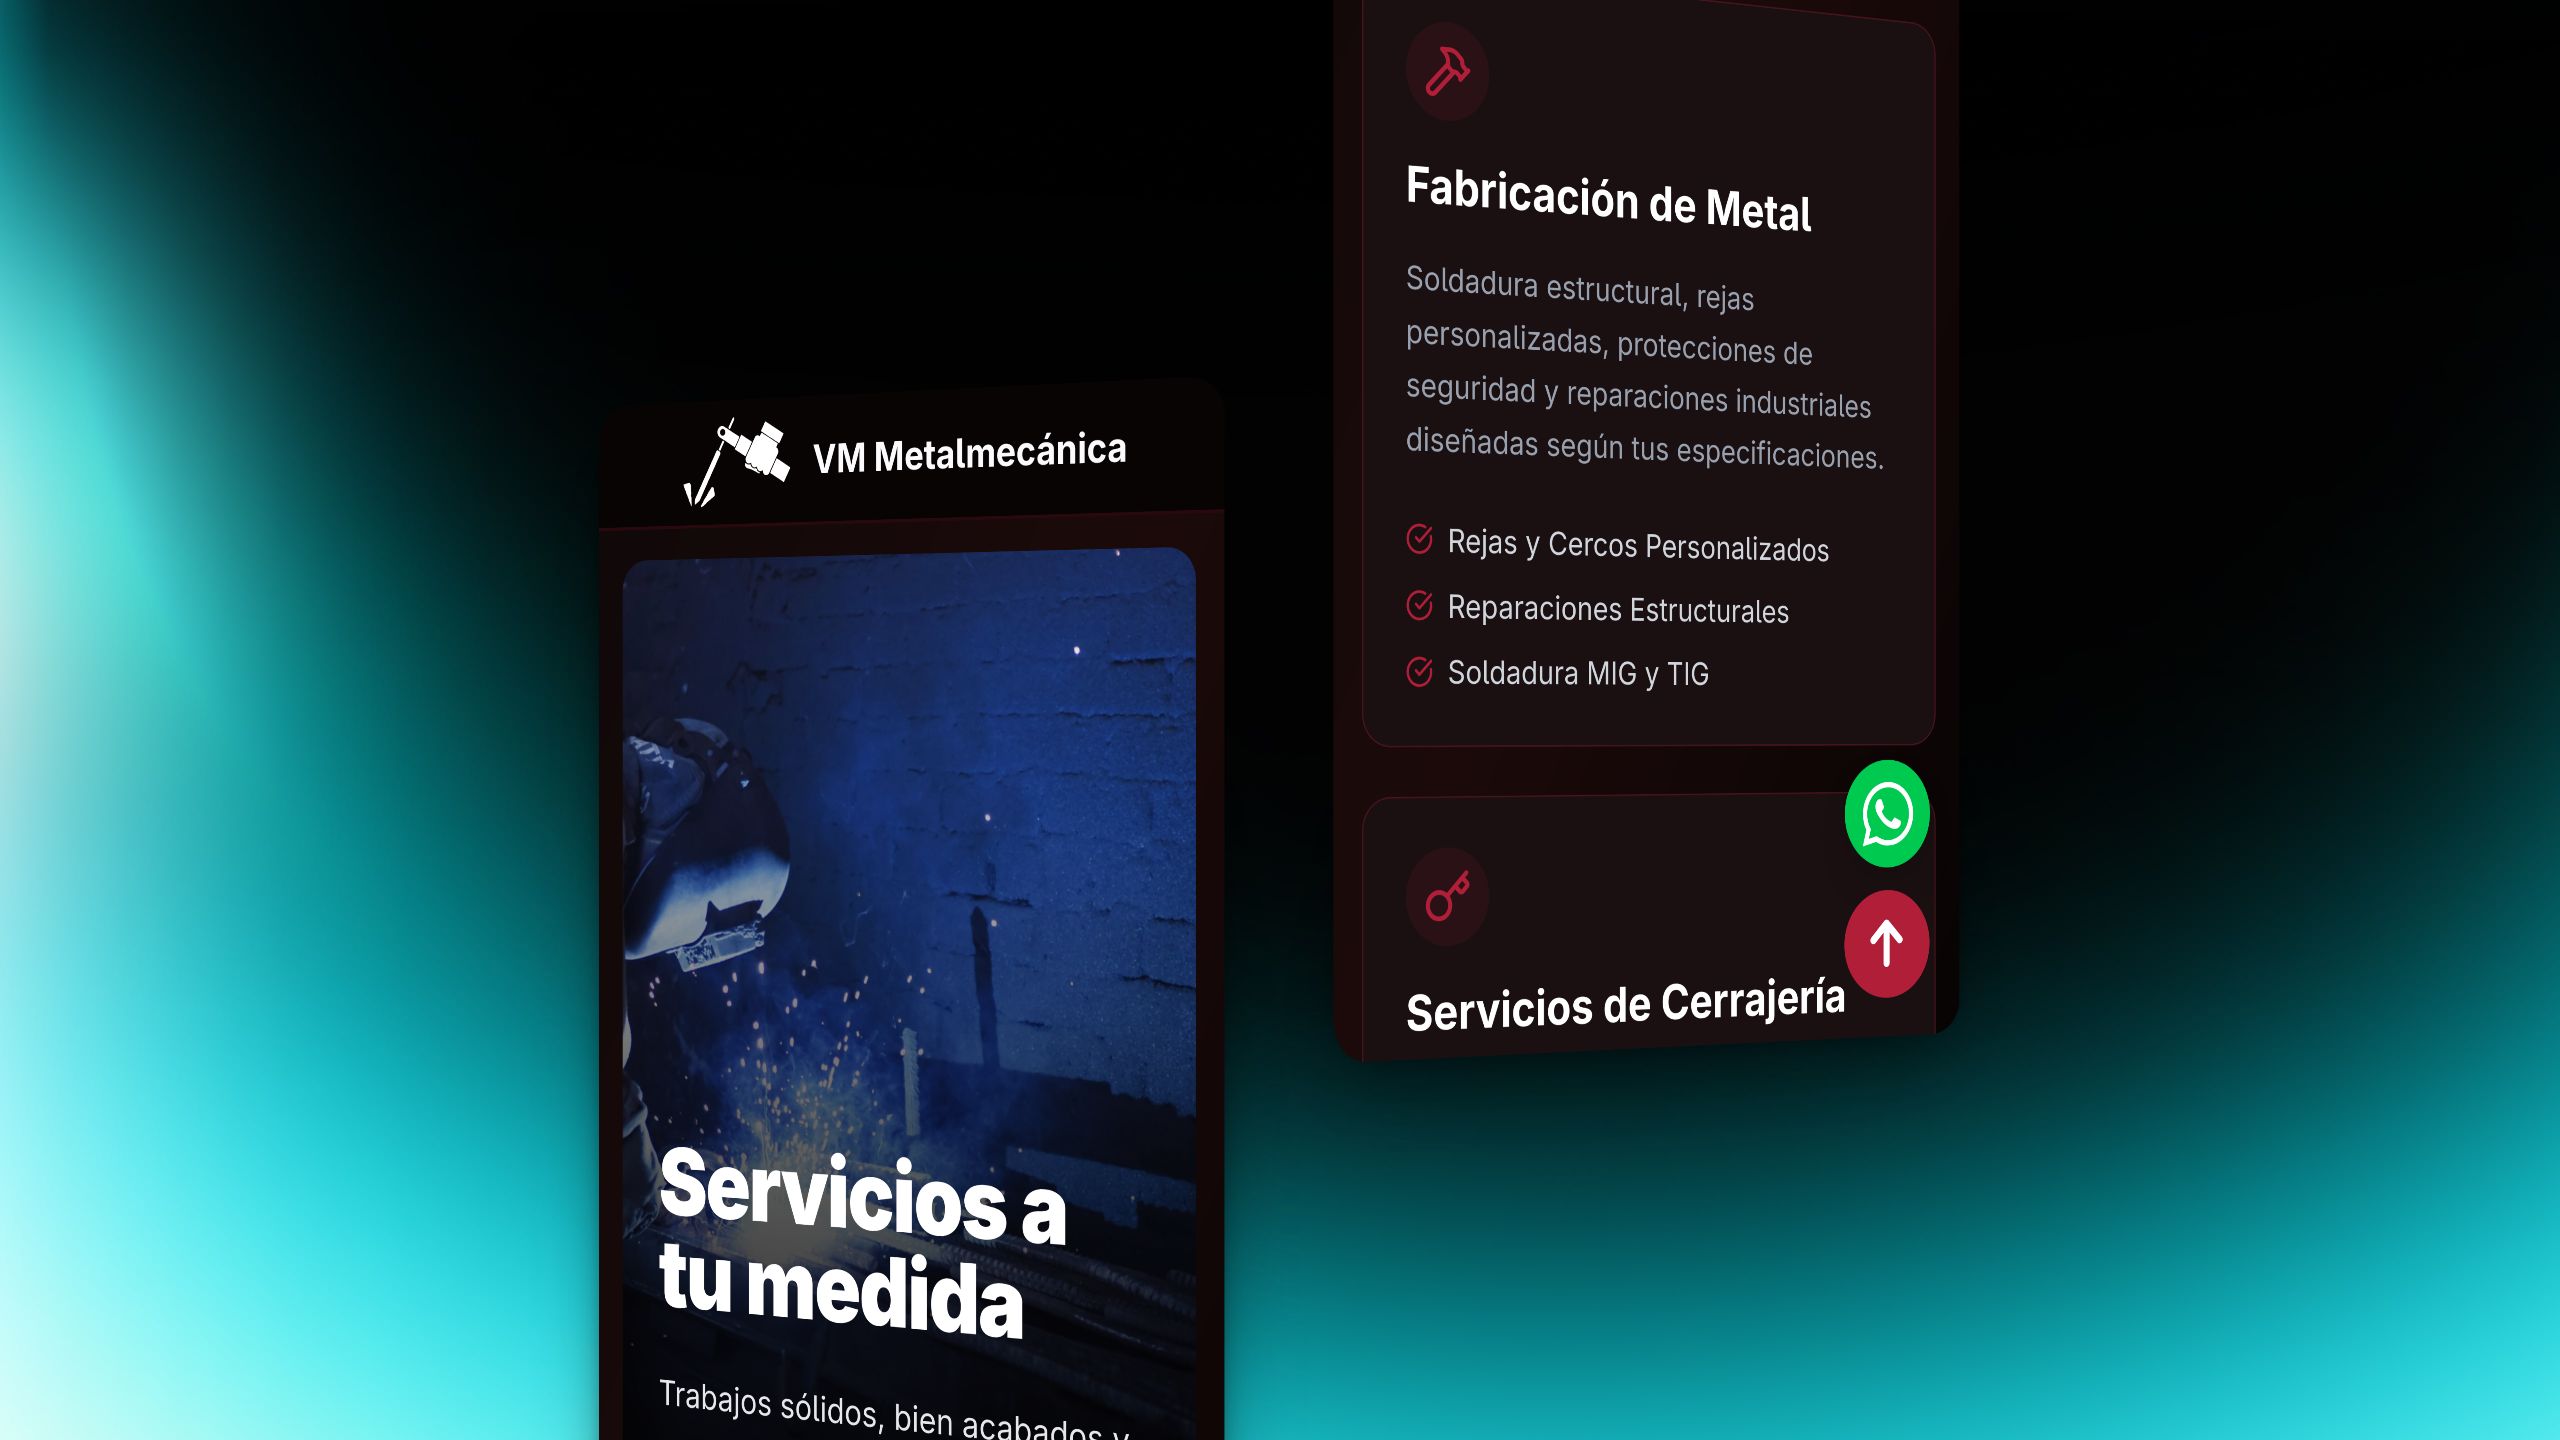
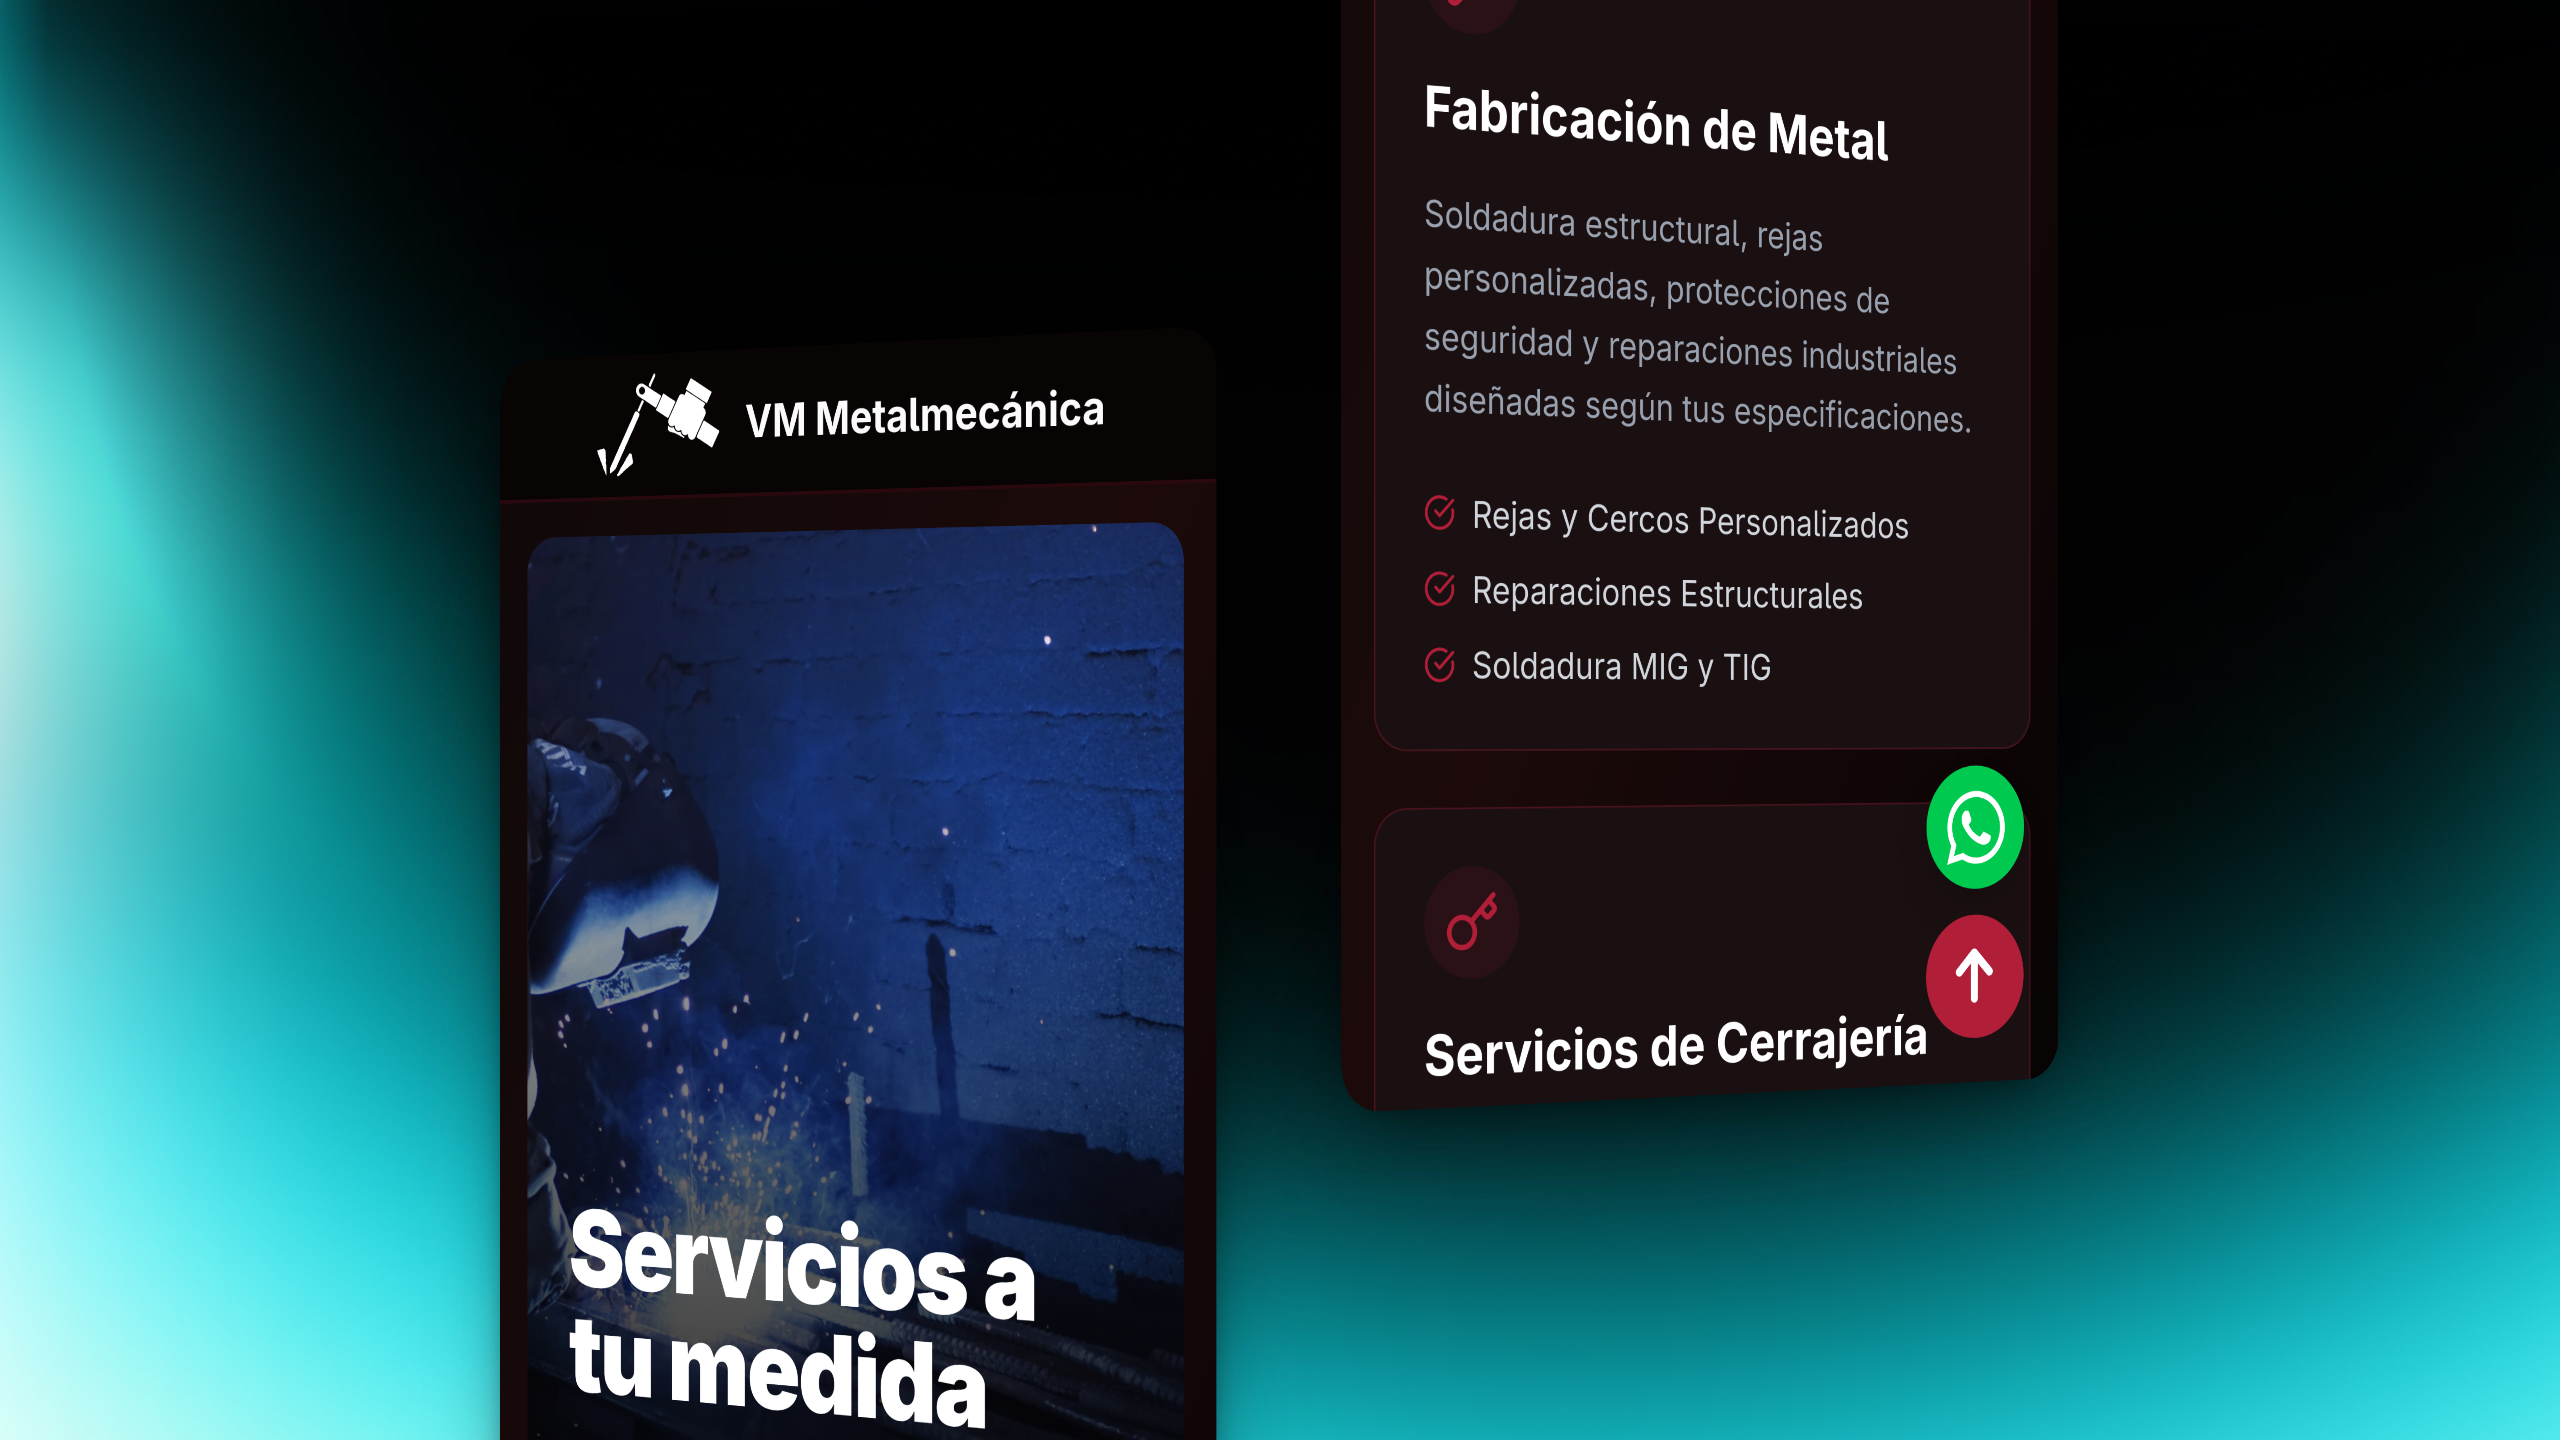
upd: README updated

diff --git a/README.md b/README.md
@@ -28,8 +28,9 @@
 </p>
 
 <div align="center">
-  <img src="./public/github_preview/captura_horizontal1.png" width="90%" alt="Vista Previa 1" style="border-radius: 10px; margin: 5px;">
-  <img src="./public/github_preview/captura_vertical1.png" width="90%" alt="Vista Previa 2" style="border-radius: 10px; margin: 5px;">
+  <img src="./public/github_preview/captura_horizontal1.png" width="100%" alt="Vista Previa 1">
+  <br>
+  <img src="./public/github_preview/captura_vertical1.png" width="100%" alt="Vista Previa 2">
 </div>
 
 ## ✨ Características